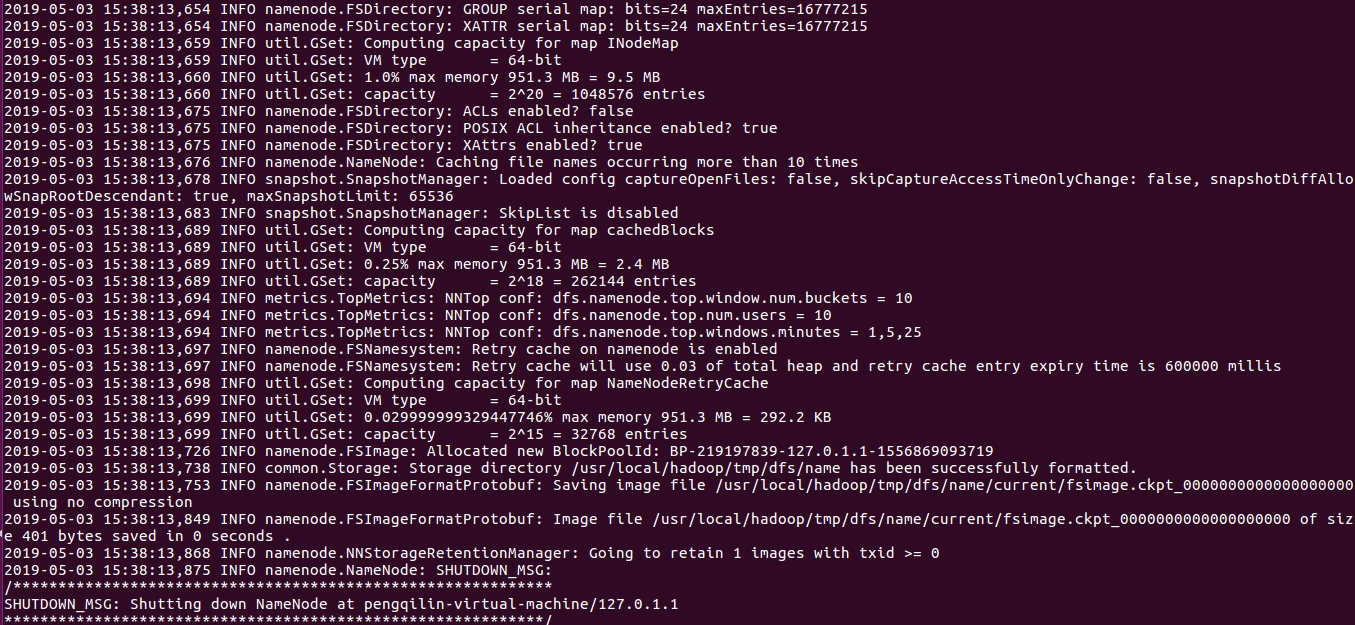
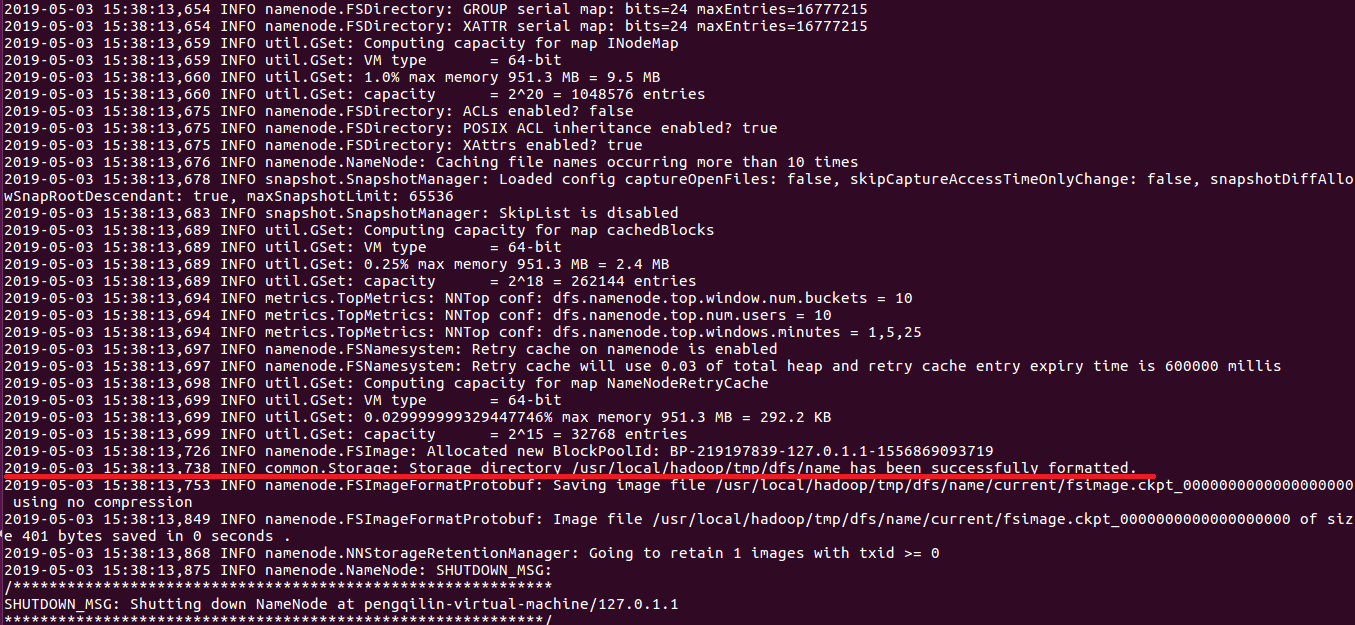
update blog

Changed region(s): [[0.0, 0.76, 0.8679, 0.7904]]

diff --git a/_posts/2019-5-3-hadoop环境配置.md b/_posts/2019-5-3-hadoop环境配置.md
@@ -1,0 +1,86 @@
+---
+layout:		post
+title:		hadoop环境配置
+subtitle:	在ubuntu中配置hadoop环境
+date：		2019-5-3
+author:		P70
+header-img:	img/post-bg-hacker.jpg
+catalog:trye
+tags:
+	-hadoop
+---
+
+本篇文章主要阐述在ubuntu中配置hadoop环境时遇到的一些问题，及相应的解决方案，具体的配置过程不会详细介绍，网上有大量的教程。
+
+详细配置参数：
+
+- Linux系统：Ubuntu 16.04.2
+- Java版本：12.0.1
+- Hadoop版本：Hadoop 3.2.0
+
+## 安装过程中遇到的问题总结
+
+### 伪分布式环境配置
+
+Hadoop可以在单节点上以伪分布式的方式运行，Hadoop进程以分离的Java进程来运行，节点既作为NameNode也作为DataNode，读取HDFS中的文件。
+
+Hadoop的配置文件位于**$HADOOP_HOME/etc/hadoop/**中，配置伪分布式环境需要修改**core-site.xml**和**hdfs-site.xml**2个配置文件。
+
+其中，在**core-site.xml**中添加以下内容：
+
+![core-site.xml配置内容](https://github.com/SadMathLovergo/SadMathLovergo.github.io/blob/master/img/2019-5-3/core-site.png?raw=true)
+
+若不配置hadoop.tmp.dir参数，则默认使用的临时目录为/tmp/hadoop-hadoop，这个目录在重启时有可能会被系统清理掉，从而导致必须重新执行format才行，并在**hdfs-site.xml**中也指定NameNode和DataNode的路径。
+
+在**hdfs-site.xml**中添加以下内容：
+
+![hdfs-site.xml配置内容](https://github.com/SadMathLovergo/SadMathLovergo.github.io/blob/master/img/2019-5-3/hdfs-site.png?raw=true)
+
+配置完毕后，执行NameNode的格式化：
+
+`$hdfs namenode -format`
+
+格式化成功之后，结果如下图所示，一定要出现**has been successfully formatted**的结果：
+
+![NameNode格式化结果](https://github.com/SadMathLovergo/SadMathLovergo.github.io/blob/master/img/2019-5-3/namenode-format.png?raw=true)
+
+开启NameNode和DataNode守护进程：
+
+`start-dfs.sh`
+
+启动结果如下图所示：
+
+![dfs启动结果](https://github.com/SadMathLovergo/SadMathLovergo.github.io/blob/master/img/2019-5-3/start-dfs.png?raw=true)
+
+注意，此过程如果出现一下WARN提示：**WARN util.NativeCodeLoader:Unable to load native-hadoop library for your platform...using builtin-java where applicable。**该WARN并不会影响Hadoop的正常使用，出现此WARN的原因是，安装的Hadoop是Release版本，其中的**libhadoop.so.1.0.0**是在32位环境下编译的，而系统是64位的系统，才会报出上述WARN，可以通过在**$HADOOP_HOME/etc/hadoop/hadoop-env.sh**中加入以下内容解决：
+
+![hadoop-env.sh配置内容](https://github.com/SadMathLovergo/SadMathLovergo.github.io/blob/master/img/2019-5-3/hadoop-env.png?raw=true)
+
+启动完成后，可以通过**jps**指令来查看是否启动成功，若启动成功，则会列出如下进程**NameNode、DataNode和SecondaryNameNode**，如下图所示：
+
+![jps查询结果图](https://github.com/SadMathLovergo/SadMathLovergo.github.io/blob/master/img/2019-5-3/jps.png?raw=true)
+
+如果没有出现NameNode或DataNode，则是因为前面的配置过程没有成功，其中，如果没有DataNode线程，则可能是因为多次执行了NameNode的格式化指令，每次执行时会在NameNode数据文件夹中(即配置文件中dfs.name.dir的路径)保存一个**current/VERSION**文件，记录clusterID，而DataNode中保存的**current/VERSION**文件中的clusterID的值是上一次格式化保存的clusterID，这样就会导致DataNode和NameNode之间的clusterID不一致，有以下两种解决方案：
+
+- 将dfs.name.dir路径下整个dfs文件夹删除，然后重新运行NameNode的格式化指令；
+
+- 若dfs文件夹中有重要的数据，则在dfs/name/current目录下找到VERSION文件，记录下NameNode的clusterID值，并将dfs/data/current目录下的VERSION文件中的DataNode的clustreID值替换即可；
+
+成功启动之后，可以访问WEB界面通过http://localhost:9870来查看NameNode和DataNode信息，此外，还可以在线查看HDFS中的文件。
+
+![在线查看](https://github.com/SadMathLovergo/SadMathLovergo.github.io/blob/master/img/2019-5-3/localhost.png?raw=true)
+
+此处务必要注意，在老版的Hadoop中默认的localhost端口为50070，而3.2.0版的Hadoop的默认端口为9870，此处一定要注意。
+
+在使用完毕后，请使用如下指令关闭Hadoop：
+
+`$stop-dfs.sh`
+
+![stop-dfs.sh](https://github.com/SadMathLovergo/SadMathLovergo.github.io/blob/master/img/2019-5-3/stop-dfs.png?raw=true)
+
+## 参考文献
+
+[Hadoop: Setting up a Single Node Cluster.](<https://hadoop.apache.org/docs/r3.2.0/hadoop-project-dist/hadoop-common/SingleCluster.html>)
+
+[Ubuntu 16.04上安装Hadoop并成功运行](<https://wangchangchung.github.io/2017/09/28/Ubuntu-16-04%E4%B8%8A%E5%AE%89%E8%A3%85Hadoop%E5%B9%B6%E6%88%90%E5%8A%9F%E8%BF%90%E8%A1%8C/>)
+
